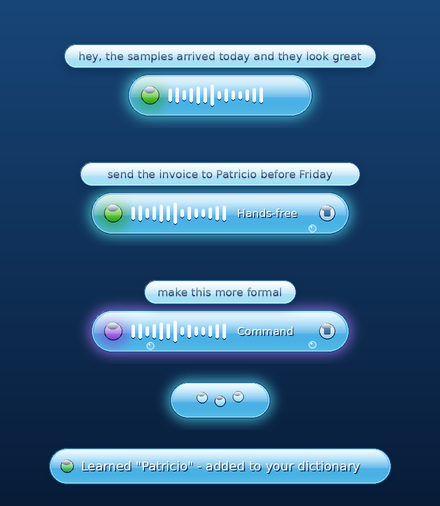
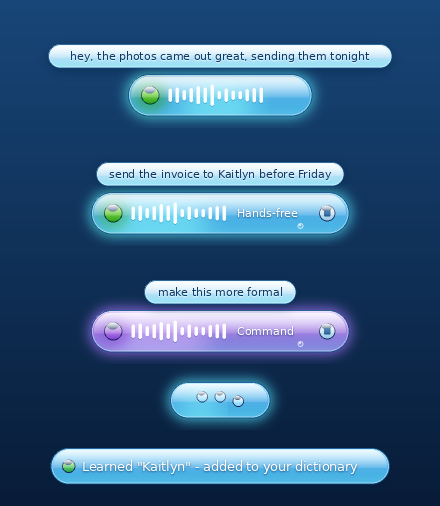
Use made-up names in examples, tests and README images
Claude-Session: https://claude.ai/code/session_011jW1LkoW97LGPWDAG95XdJ

diff --git a/aqualite/selftest.py b/aqualite/selftest.py
@@ -209,15 +209,15 @@ def check_new_features():
     assert se("Please review and send it.") == ("Please review and send it.", False)
     assert se("مرحبا. اضغط انتر") == ("مرحبا.", True)
     lw = textproc.learned_words
-    assert lw("Tell Patrisio hi.", "Tell Patricio hi.") == ["Patricio"] and lw("the api is down", "the API is down") == ["API"]
+    assert lw("Tell Kaitlin hi.", "Tell Kaitlyn hi.") == ["Kaitlyn"] and lw("the api is down", "the API is down") == ["API"]
     assert lw("have a meeting", "have a call") == [] and lw("hello there", "Hello there") == []
     from . import learn, live
     t = [0.0]
-    d, states = "Tell Patrisio hi. ", [(0, "Hey! Tell Patrisio hi. "), (3, "Hey! Tell Patricio hi. "), (8, "")]
+    d, states = "Tell Kaitlin hi. ", [(0, "Hey! Tell Kaitlin hi. "), (3, "Hey! Tell Kaitlyn hi. "), (8, "")]
     read = lambda: [x for at, x in states if t[0] >= at][-1]
     w = learn.CorrectionWatcher(d, read, lambda: 1, lambda _w: None, clock=lambda: t[0],
                                 sleep=lambda secs: t.__setitem__(0, t[0] + secs))
-    assert w.run() == ["Patricio"]
+    assert w.run() == ["Kaitlyn"]
     assert live.tidy("Thanks for watching!", False) == "" and live.tidy("lo there friend", True) == "there friend"
     from .config import VERSION, whats_new
     assert whats_new(VERSION)[1], "CHANGELOG.md has no entry for this version"
@@ -230,7 +230,7 @@ def check_learning():
     assert se("Hey, how are you?", "hey, how are you?")                               # case-only style counts
     assert se("Late. ", "Late. Also bring the charger") is None                          # kept typing after it
     assert se("Launch on Friday.", "Quick note: Launch on Friday.") is None              # typed before it
-    assert se("Send it to Patrisio.", "Send it to Patricio.") is None                    # a name: dictionary's job
+    assert se("Send it to Kaitlin.", "Send it to Kaitlyn.") is None                    # a name: dictionary's job
     assert se("Thanks for the update.", "Completely different message about lunch plans") is None
     assert se("Hello  world.", "Hello world.") is None and se("Same.", "Same.") is None
     from . import learn
@@ -243,10 +243,10 @@ def check_learning():
     w.run()
     assert got and se(*got[-1]) == ("Hey, I'm going to be late.", "hey im gonna be late"), got
     from . import context, llm
-    assert context.assemble(["Patricio", "Patricio: are the samples in?", "  ", "Patricio: are the samples in?",
-                             "Yes, Huilin sent them"]) == "Patricio: are the samples in?\nYes, Huilin sent them"
-    names = context.hint_names("Patricio: did Huilin ship? Yes. Ask Patricio about the DHL tracking")
-    assert names[:3] == ["DHL", "Patricio", "Huilin"] and "Yes" not in names and "Ask" not in names, names
+    assert context.assemble(["Kaitlyn", "Kaitlyn: are the samples in?", "  ", "Kaitlyn: are the samples in?",
+                             "Yes, Marco sent them"]) == "Kaitlyn: are the samples in?\nYes, Marco sent them"
+    names = context.hint_names("Kaitlyn: did Marco ship? Yes. Ask Kaitlyn about the DHL tracking")
+    assert names[:3] == ["DHL", "Kaitlyn", "Marco"] and "Yes" not in names and "Ask" not in names, names
     cfg = {"context_blocked_apps": ["bitwarden"]}
     assert context.allowed("whatsapp", "Chat", cfg) and not context.allowed("Bitwarden", "", cfg)
     assert not context.allowed("chrome", "New Tab - InPrivate", cfg) and not context.allowed("pythonw", "", cfg)
@@ -255,21 +255,21 @@ def check_learning():
     assert "ok see u" in x and "Sara: lunch?" in x and "so " in x and "never reply" in x
     xc = llm._extras(ctx, command=True)
     assert "ok see u" not in xc and "Sara: lunch?" in xc and llm._extras({"app": "x"}) == ""
-    assert stt.vocab_prompt({"dictionary": ["Patricio"]}, ["patricio", "Huilin"]) == "Patricio, Huilin."
+    assert stt.vocab_prompt({"dictionary": ["Kaitlyn"]}, ["kaitlyn", "Marco"]) == "Kaitlyn, Marco."
 
 
 def check_instant():
     from . import instant
     a = instant.Agreement()
     w = lambda t, s: (" " + t, s, s + 0.3)
-    assert a.insert([w("Hey", 0.1), w("Patrisio", 0.5)]) == []                     # first pass: nothing is sure yet
-    assert [x[0] for x in a.insert([w("hey", 0.1), w("Patricio", 0.5), w("the", 0.9)])] == [" Hey"]  # keeps on-screen form
-    assert [x[0] for x in a.insert([w("Hey", 0.1), w("Patricio,", 0.5), w("the", 0.9)])] == [" Patricio", " the"]
+    assert a.insert([w("Hey", 0.1), w("Kaitlin", 0.5)]) == []                     # first pass: nothing is sure yet
+    assert [x[0] for x in a.insert([w("hey", 0.1), w("Kaitlyn", 0.5), w("the", 0.9)])] == [" Hey"]  # keeps on-screen form
+    assert [x[0] for x in a.insert([w("Hey", 0.1), w("Kaitlyn,", 0.5), w("the", 0.9)])] == [" Kaitlyn", " the"]
     assert a.insert([w("the", 0.92), w("samples", 1.3)]) == []                     # re-heard 'the' isn't doubled
     assert [x[0] for x in a.insert([w("samples", 1.31), w("arrived", 1.7)])] == [" samples"]
-    assert a.text() == "Hey Patricio the samples"
+    assert a.text() == "Hey Kaitlyn the samples"
     # word by word: guesses go in at once and get fixed when re-heard, only after checking the box
-    box, words = ["Re: "], [[("Hey", 0.1, 0.4), ("Patrisio", 0.5, 0.9)], [("Hey", 0.1, 0.4), ("Patricio", 0.5, 0.9)]]
+    box, words = ["Re: "], [[("Hey", 0.1, 0.4), ("Kaitlin", 0.5, 0.9)], [("Hey", 0.1, 0.4), ("Kaitlyn", 0.5, 0.9)]]
 
     class Rec:
         duration, speech_frames = 2.0, 1
@@ -290,12 +290,12 @@ def check_instant():
         return True
     st = instant.Streamer(Rec(), {}, Model(), typer, delete_fn=eraser, check=lambda t: box[0].endswith(t))
     st.step()
-    assert box[0] == "Re: Hey Patrisio"
+    assert box[0] == "Re: Hey Kaitlin"
     st.step()
-    assert box[0] == "Re: Hey Patricio" and st.typed == "Hey Patricio"
+    assert box[0] == "Re: Hey Kaitlyn" and st.typed == "Hey Kaitlyn"
     assert instant.common_prefix("abc", "abd") == 2
-    dg = instant.DeepgramStreamer(Rec(), {"dictionary": ["Huilin"], "language": "ar"}, "k", typer).params()
-    assert "model=nova-3" in dg and "language=ar" in dg and "keyterm=Huilin" in dg and "encoding=linear16" in dg
+    dg = instant.DeepgramStreamer(Rec(), {"dictionary": ["Marco"], "language": "ar"}, "k", typer).params()
+    assert "model=nova-3" in dg and "language=ar" in dg and "keyterm=Marco" in dg and "encoding=linear16" in dg
     from . import gpu
     assert isinstance(gpu.lib_dirs(), list) and gpu.MODEL == "large-v3-turbo"
     assert gpu.recommend(2048) == "small" and gpu.recommend(8192) == "large-v3-turbo" and gpu.recommend(0) == gpu.MODEL
@@ -460,12 +460,12 @@ def check_report():
     r = report.redact
     assert r("dictation 2.1s audio, 0.9s, groq [personal] -> ctrl+v | text='call mom at 6 '").endswith("| text=[removed]")
     assert r("INFO dictation 1.0s audio, 0.5s, local [other] -> ctrl+v: 'secret words'").endswith(": [removed]")
-    assert r("learned from a correction | text=['Patricio']").endswith("text=[removed]")
-    assert r("learned from a correction: ['Patricio']").endswith(": [removed]")
+    assert r("learned from a correction | text=['Kaitlyn']").endswith("text=[removed]")
+    assert r("learned from a correction: ['Kaitlyn']").endswith(": [removed]")
     assert "gsk_" not in r("auth failed for gsk_abcdefghijklmnop1234")
     assert r("update: installed 1.3.1, GitHub 1.3.1 (abc1234)") == "update: installed 1.3.1, GitHub 1.3.1 (abc1234)"
-    text = report.build({"groq_api_key": "gsk_secretsecret", "dictionary": ["Patricio"], "language": "auto"}, {"x": 1})
-    assert "gsk_secret" not in text and "Patricio" not in text and "language: auto" in text and "API keys set: groq" in text
+    text = report.build({"groq_api_key": "gsk_secretsecret", "dictionary": ["Kaitlyn"], "language": "auto"}, {"x": 1})
+    assert "gsk_secret" not in text and "Kaitlyn" not in text and "language: auto" in text and "API keys set: groq" in text
 
 
 def check_updater():

diff --git a/aqualite/textproc.py b/aqualite/textproc.py
@@ -184,7 +184,7 @@ def _ratio(a, b):
 
 def learned_words(dictated, edited):
     """Compare what Aqua Lite typed with what the user turned it into. Returns words worth adding to the
-    dictionary: one-for-one swaps that look like a mis-heard name or term ('Patrisio' -> 'Patricio'),
+    dictionary: one-for-one swaps that look like a mis-heard name or term ('Kaitlin' -> 'Kaitlyn'),
     not rewrites ('meeting' -> 'call')."""
     import difflib
     a, b = _WORD.findall(dictated or ""), _WORD.findall(edited or "")
@@ -202,7 +202,7 @@ def learned_words(dictated, edited):
             continue  # just spacing/joining
         if _ratio(old, new) >= 0.5:
             out.append(new)
-    # case-only fixes: 'patricio' -> 'Patricio', 'api' -> 'API' (names, brands, acronyms) - but not
+    # case-only fixes: 'kaitlyn' -> 'Kaitlyn', 'api' -> 'API' (names, brands, acronyms) - but not
     # capitalising the first word of a sentence, and not lower-casing
     if len(a) == len(b):
         starts = {m.start() for m in _WORD.finditer(edited)}
@@ -256,7 +256,7 @@ def style_edit(dictated, edited, max_len=500):
                      and not any(t[0].lower() == u[0].lower() for t in a[i1:i2] for u in b[j1:j2])
                      for op, i1, i2, j1, j2 in changes)
     if names_only:
-        return None           # 'Patrisio' -> 'Patricio': a dictionary word, already learned
+        return None           # 'Kaitlin' -> 'Kaitlyn': a dictionary word, already learned
     if len(a_txt) > max_len or len(b_txt) > max_len:
         return None
     return a_txt, b_txt

diff --git a/docs/make_images.py b/docs/make_images.py
@@ -19,11 +19,11 @@ def flow_bar():
     rnd = random.Random(4)
     lv = [abs(rnd.gauss(0.45, 0.25)) % 1 for _ in range(14)]
     frames = [
-        r.render("recording", "", lv, 3, "info", "hey, the samples arrived today and they look great"),
-        r.render("locked", "", lv, 7, "info", "send the invoice to Patricio before Friday"),
+        r.render("recording", "", lv, 3, "info", "hey, the photos came out great, sending them tonight"),
+        r.render("locked", "", lv, 7, "info", "send the invoice to Kaitlyn before Friday"),
         r.render("command", "", lv, 5, "info", "make this more formal"),
         r.render("processing", "", [], 4),
-        r.render("toast", 'Learned "Patricio" - added to your dictionary', [], 0, "ok"),
+        r.render("toast", 'Learned "Kaitlyn" - added to your dictionary', [], 0, "ok"),
     ]
     trim = 26  # empty space above the shorter states
     rows = [frames[0], frames[1], frames[2], frames[3].crop((0, trim * 2, w, h)), frames[4].crop((0, trim * 2, w, h))]

diff --git a/aqualite/learn.py b/aqualite/learn.py
@@ -1,5 +1,5 @@
 """Learn from corrections: after a dictation is typed, watch the text box for a little while. If you fix a word
-Aqua Lite got wrong ('Patrisio' -> 'Patricio'), that word goes into your dictionary so it's right next time.
+Aqua Lite got wrong ('Kaitlin' -> 'Kaitlyn'), that word goes into your dictionary so it's right next time.
 If you reword it (punctuation, phrasing, formatting), that before/after pair is kept so the AI can follow your
 preferences next time (see textproc.style_edit and history.add_correction).
 

diff --git a/README.md b/README.md
@@ -15,7 +15,7 @@ It is not affiliated with or endorsed by Wispr AI, Inc.
 
 - **Push-to-talk and hands-free:** hold `Ctrl + Win`, or tap it twice (or add `Space`) to keep listening. Hands-free finishes by itself after 8 seconds of silence. The Flow bar stays out of the way and only appears while you're dictating.
 - **Live words:** see what you're saying in a small bubble above the bar as you talk.
-- **Learns your corrections:** fix a word right after dictating ("Patrisio" to "Patricio") and it goes into your dictionary.
+- **Learns your corrections:** fix a word right after dictating ("Kaitlin" to "Kaitlyn") and it goes into your dictionary.
 - **Learns how you write:** reword what it typed (lowercase, no full stops, "5:30pm" instead of "5:30 PM") and it remembers, so the next dictations already come out your way.
 - **Understands the conversation (optional):** reads the chat you're replying to, so names, topic and tone fit. In Command Mode, say "reply to this saying I'm in" with nothing selected.
 - **"Press enter":** end a dictation with "press enter" or "send it" and the message is sent after it's typed.

diff --git a/CHANGELOG.md b/CHANGELOG.md
@@ -30,7 +30,7 @@ new app icon and a "Report a problem" button
 ## 1.3.0 - Quality of Life Update
 live words, learns your fixes, undo & more
 - **Live words:** see what you're saying in a small bubble above the bar while you talk (offline preview model, no API calls).
-- **Learns your corrections:** fix a word right after dictating ("Patrisio" to "Patricio") and it's added to your dictionary.
+- **Learns your corrections:** fix a word right after dictating ("Kaitlin" to "Kaitlyn") and it's added to your dictionary.
 - **Say "press enter" or "send it"** at the end of a dictation to send the message after it's typed.
 - **Double-tap `Ctrl + Win`** for hands-free.
 - **Hands-free stops by itself** after 8 seconds of silence (change it in Settings).
